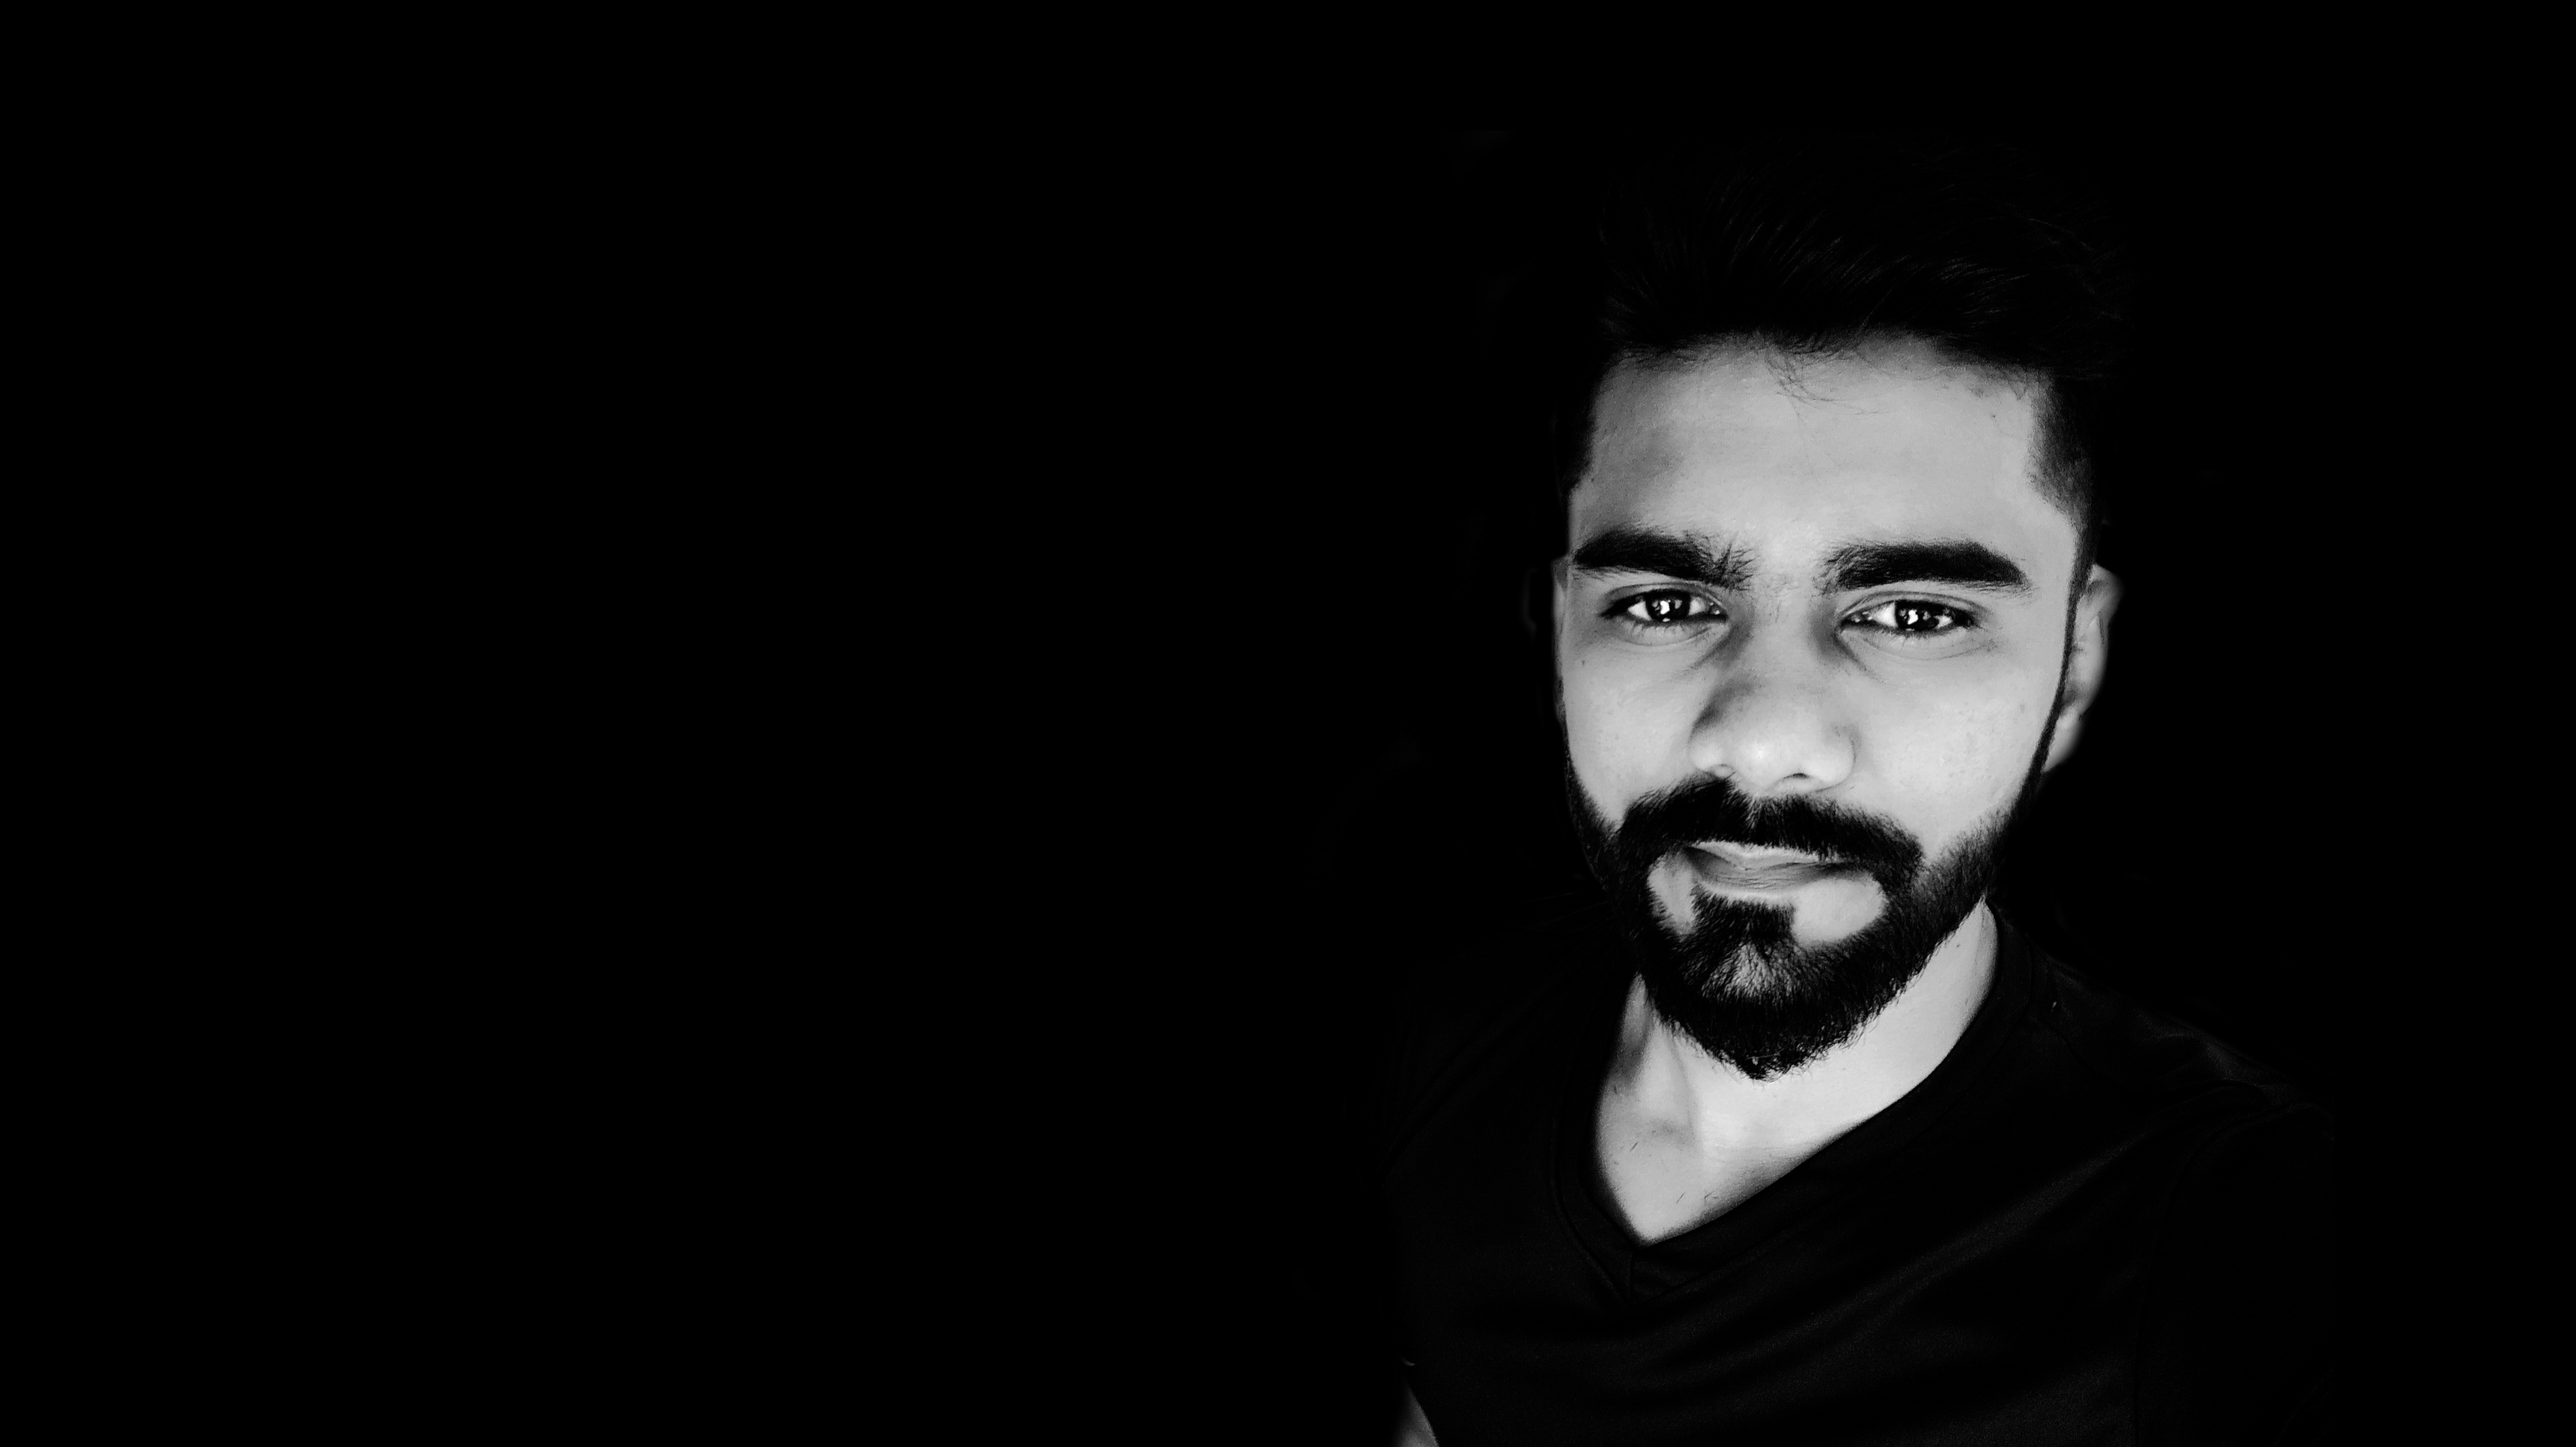
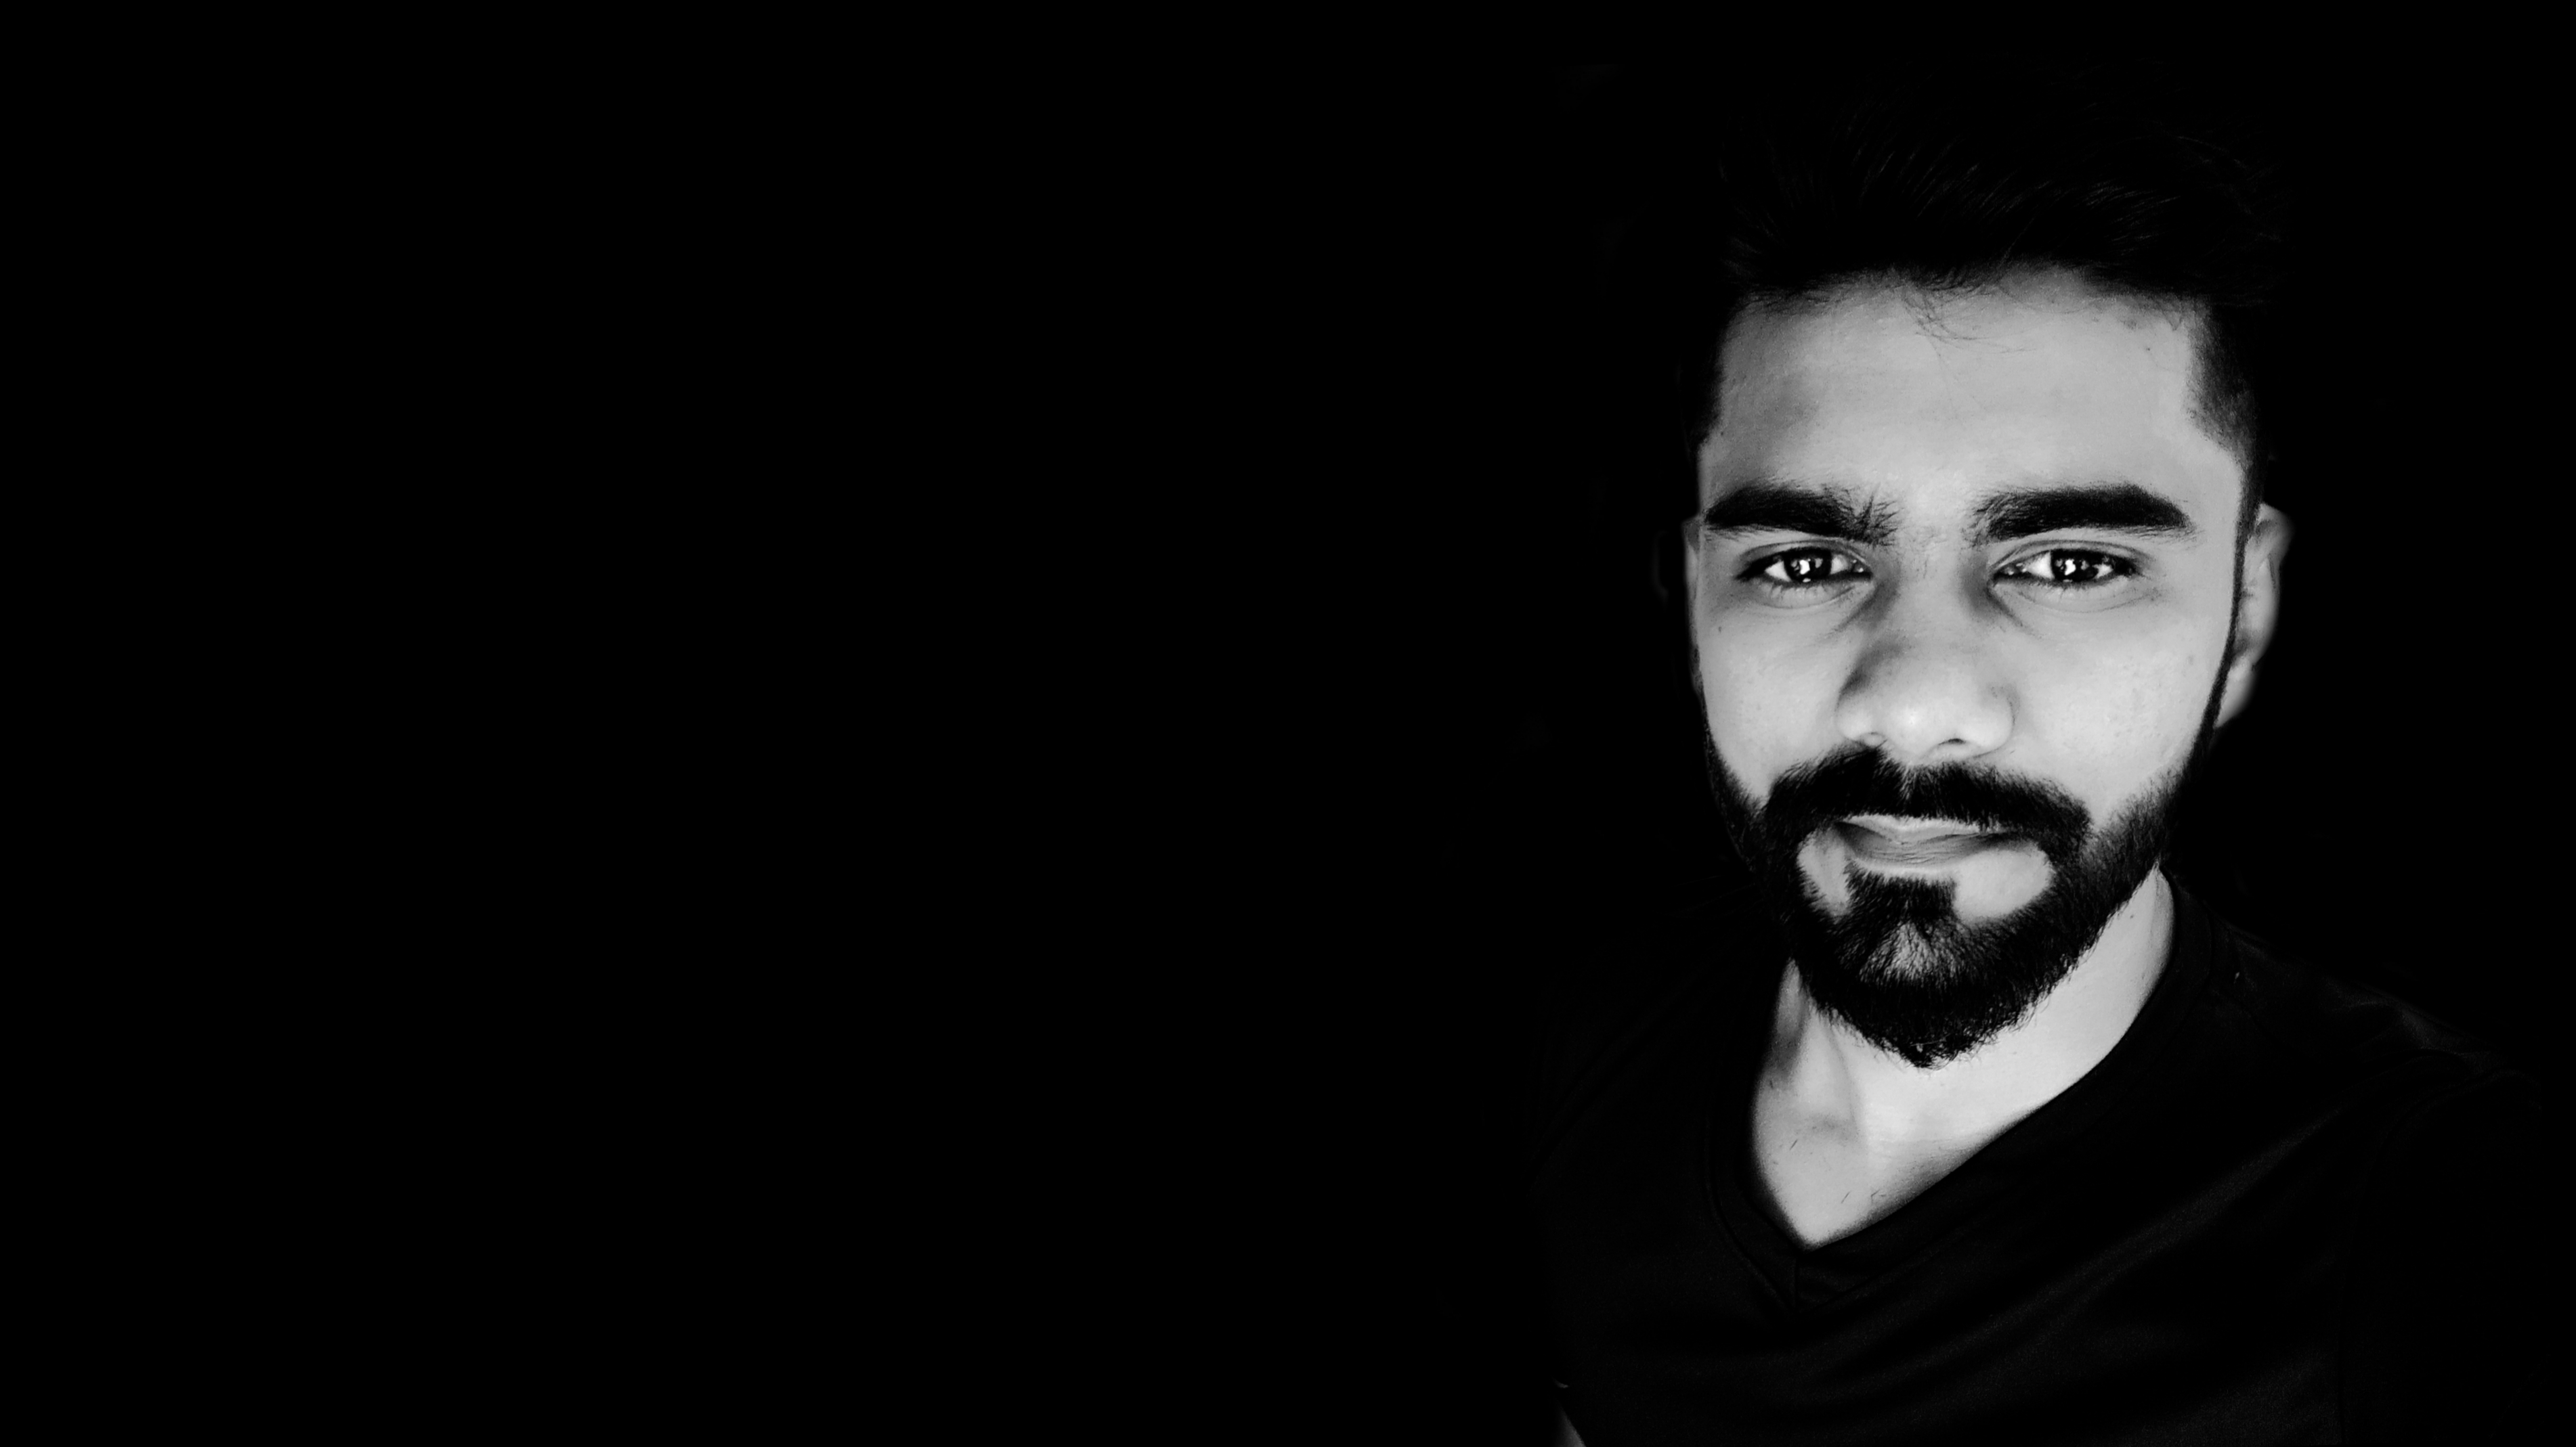
Added the photo and urls

Changed region(s): [[0.5894, 0.1852, 0.8996, 0.8644], [0.5273, 0.957, 0.5584, 1.0], [0.5894, 0.9878, 0.6204, 1.0]]

diff --git a/index.html b/index.html
@@ -33,7 +33,7 @@
         <div class="container">
             <div class="row">
                   <div class="about-col-1">
-                      <img src="Images/user.png" alt="">
+                      <img src="Images/user.jpg" alt="">
                   </div>
                   <div class="about-col-2">
                       <h1 class="sub-title">About Me</h1>
@@ -154,9 +154,9 @@
                     <p><i class="fa-solid fa-envelope"></i> vivekmuneshwar95@gmail.com</p>
                     <p><i class="fa-solid fa-phone"></i> 8668267604</p>
                     <div class="social-icons">
-                        <a href="#"><i class="fa-brands fa-linkedin"></i></a>
-                        <a href="#"><i class="fa-brands fa-square-instagram"></i></i></a>
-                        <a href="#"><i class="fa-brands fa-square-facebook"></i></i></a>
+                        <a href="https://www.linkedin.com/in/vivek-muneshwar-323100252/"><i class="fa-brands fa-linkedin"></i></a>
+                        <a href="https://www.instagram.com/vickye29/"><i class="fa-brands fa-square-instagram"></i></i></a>
+                        <a href="https://www.facebook.com/vivek.muneshwar.5"><i class="fa-brands fa-square-facebook"></i></i></a>
                         <a href="#"><i class="fa-brands fa-square-twitter"></i></i></a>
                     </div>
                     <a href="https://drive.google.com/file/d/1CQ3HWKsq-BEogYf4PCMmyw9CRix4tV8O/view?usp=drive_link" download class="btn btn2">Download CV</a>
